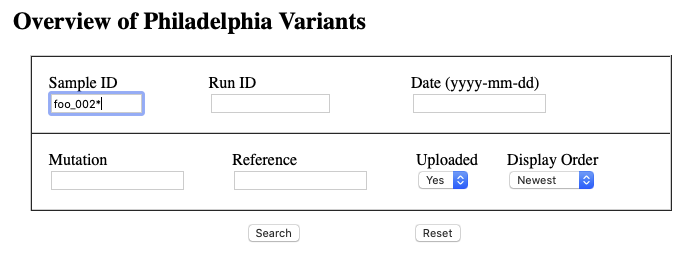
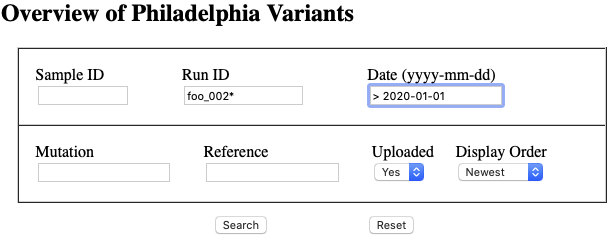
gui docs

diff --git a/clamp-gui/README.md b/clamp-gui/README.md
@@ -1,3 +1,35 @@
 ## Usage notes for storage and reporting frontend
 
-![Search Screen](../img/example.png "Search Screen")
+### Clinic
+Clamp users start with a blank search screen:
+
+![Starting Screen](../img/search.png "Starting Screen")
+
+Values can be entered into these fields to limit the results. 
+In the image below, the search has been limited to Run IDs starting with "foo_002"
+(note the use of "*" as a wildcard) and a Date greater than 2020-01-01
+(note the use of ">" as a comparator and yyy-mm-dd format).
+
+![Search Example](../img/example.png "Search Example")
+
+After clicking *Search*, a list of hits will appear, showing the calculated
+percentages of any any mutations found. Some fields omitted for clarity.
+
+![Search Results](../img/results.png "Search Results")
+
+Clicking on the numbers in the left-most column will bring up a detailed view 
+for that sample including access to raw data files. Details unavailable to the current sample
+(eg, no clonal distribution for samples with fewer than ywo mutations). The navigation panel at the top
+can be used to view other selected samples.
+
+![Details](../img/details.png "Details")
+
+
+### Technicians
+Data upload is done through the Admin Page.
+
+![Admin Menu](../img/admin.png "Admin Menu")
+
+
+
+
